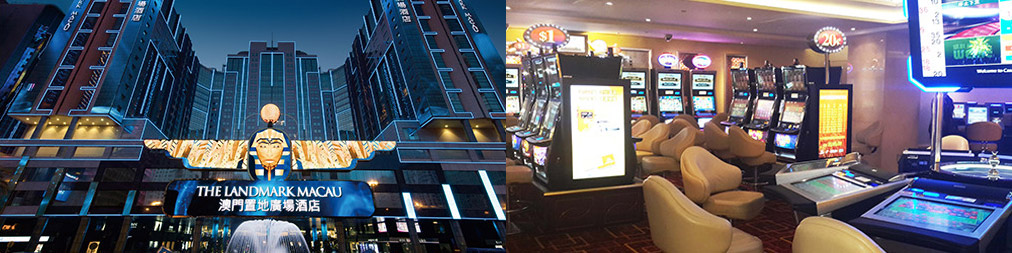
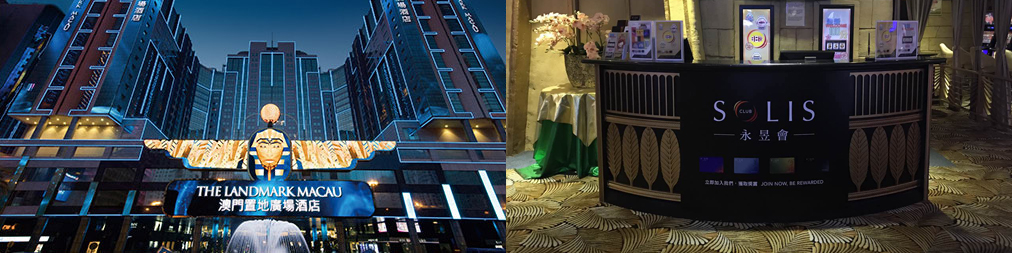
更新客戶要求
移除 about solis
地圖語言更正
圖片更換

diff --git a/index.html b/index.html
@@ -1,4 +1,4 @@
 <!DOCTYPE html PUBLIC "-//W3C//DTD HTML 4.01//EN" "http://www.w3.org/TR/html4/strict.dtd">
 <html><head>
-<meta http-equiv="refresh" content="0; url=/en/" />
+<meta http-equiv="refresh" content="0; url=/tc/" />
 <meta http-equiv="Content-Type" content="text/html; charset=windows-1252"><title>www.solismacau.com</title></head><body style="color: white; background-color: black;" alink="#000099" link="#000099" vlink="#990099"><div style="text-align: center;"><br><br><br><img style="width: 80%; height: 80%;" alt="www.sdgi.co" src="logo-black-fnl-RGB.png"><br><br><br><br><big><big><span style="font-weight: bold;">Coming Soon</span></big></big></div></body></html>

diff --git a/sc/index.php b/sc/index.php
@@ -79,7 +79,7 @@
       </div>
     </div>
     <!-- Who we are -->
-    <div class="row who_bg" id="about">
+    <div class="row who_bg hide" id="about">
       <div class="col-lg-12">
         <div class="who_text_box text-justify">
           <h2 class="text-center">关于永昱</h2>
@@ -110,7 +110,7 @@
         <h2 class="text-center">澳门永昱位置</h2>
       </div>
       <div class="col-sm-12">
-      	<iframe src="https://www.google.com/maps/d/u/0/embed?mid=1RwQcA-M-sqM-XcEc5kaL8c2SMcs&hl=uk" width="100%" height="320"></iframe>
+      	<iframe src="https://www.google.com/maps/d/u/0/embed?mid=1RwQcA-M-sqM-XcEc5kaL8c2SMcs&hl=zh_CN" width="100%" height="320"></iframe>
       </div>
       <div class="col-md-4 local_place_bg"> 
        <div class="text-center local_img"><img src="images/location_1.jpg" alt="" class="img-responsive"></div>

diff --git a/tc/index.php b/tc/index.php
@@ -80,7 +80,7 @@
       </div>
     </div>
     <!-- Who we are -->
-    <div class="row who_bg" id="about">
+    <div class="row who_bg hide" id="about">
       <div class="col-lg-12">
         <div class="who_text_box text-justify">
           <h2 class="text-center">關於永昱</h2>
@@ -110,7 +110,7 @@
         <h2 class="text-center">澳門永昱位置</h2>
       </div>
       <div class="col-sm-12">
-      	<iframe src="https://www.google.com/maps/d/u/0/embed?mid=1RwQcA-M-sqM-XcEc5kaL8c2SMcs&hl=uk" width="100%" height="320"></iframe>
+      	<iframe src="https://www.google.com/maps/d/u/0/embed?mid=1RwQcA-M-sqM-XcEc5kaL8c2SMcs&hl=zh_CN" width="100%" height="320"></iframe>
       </div>
       <div class="col-md-4 local_place_bg"> 
        <div class="text-center local_img"><img src="images/location_1.jpg" alt="" class="img-responsive"></div>

diff --git a/en/index.php b/en/index.php
@@ -80,7 +80,7 @@
       </div>
     </div>
     <!-- Who we are -->
-    <div class="row who_bg" id="about">
+    <div class="row who_bg hide" id="about">
       <div class="col-lg-12">
         <div class="who_text_box text-justify">
           <h2 class="text-center">ABOUT SOLIS</h2>
@@ -110,7 +110,7 @@
         <h2 class="text-center">Our  LOCATIONS</h2>
       </div>
       <div class="col-sm-12">
-      	<iframe src="https://www.google.com/maps/d/u/0/embed?mid=1RwQcA-M-sqM-XcEc5kaL8c2SMcs&hl=uk" width="100%" height="320"></iframe>
+      	<iframe src="https://www.google.com/maps/d/u/0/embed?mid=1g-eXePThAdnBzkKs6LrLY8OH-Lg&hl=en_US" width="100%" height="320"></iframe>
       </div>
       <div class="col-md-4 local_place_bg"> 
        <div class="text-center local_img"><img src="images/location_1.jpg" alt="" class="img-responsive"></div>
